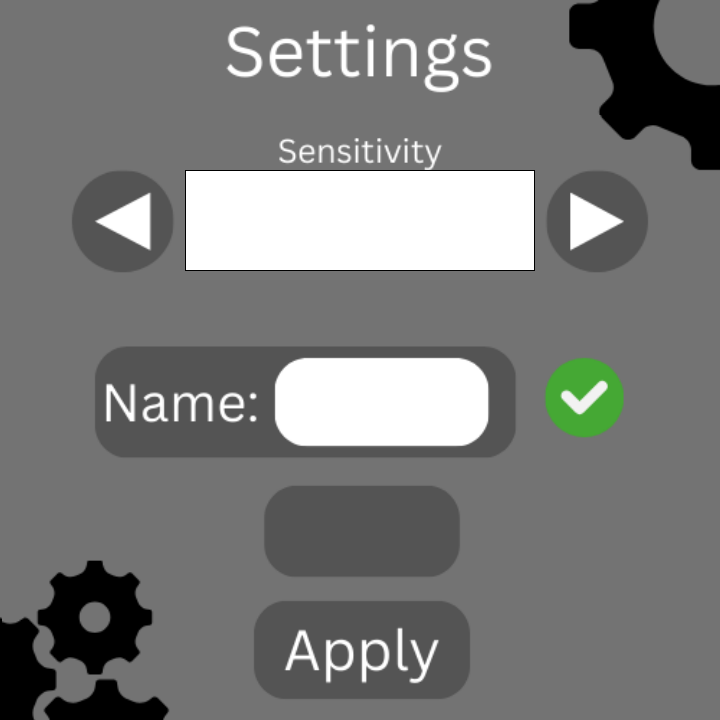
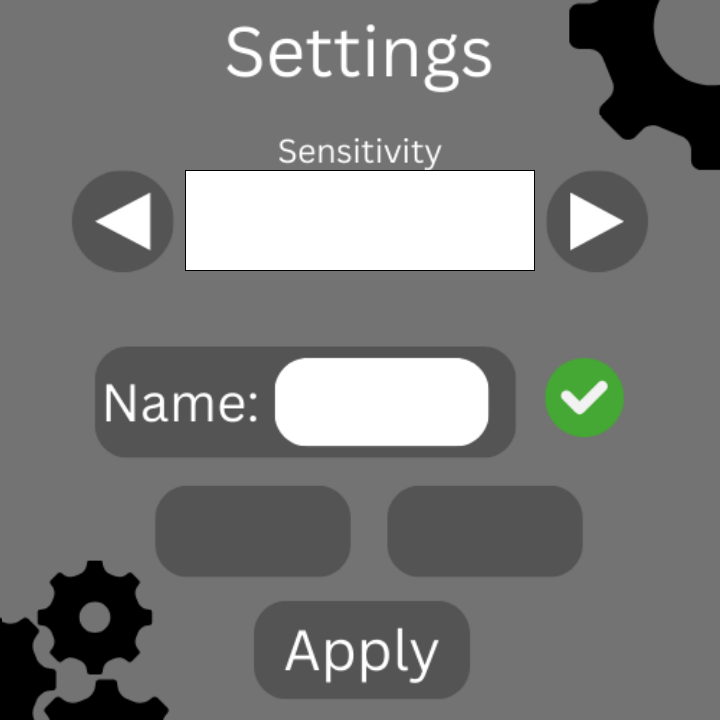
slurey of bug fixes

Changed region(s): [[0.6111, 0.6722, 0.825, 0.825], [0.2139, 0.6722, 0.3972, 0.825], [0.4583, 0.6722, 0.5806, 0.825]]

diff --git a/LiminalSpaceMazeGame/Game1.cs b/LiminalSpaceMazeGame/Game1.cs
@@ -29,6 +29,7 @@ namespace LiminalSpaceMazeGame
 
         Song mainSong;
         bool playsong = true;
+        bool playfx = true;
         bool playing = false;
 
         GenerateMaze TheMaze;
@@ -213,7 +214,9 @@ namespace LiminalSpaceMazeGame
             stateButtonList.Add(new stateButtons(new Vector2(250, 598), new Vector2(220, 100), GameState.Settings, 'E'));
             stateButtonList.Add(new stateButtons(new Vector2(275, 360), new Vector2(220, 90), GameState.Settings, 'N'));
             stateButtonList.Add(new stateButtons(new Vector2(545, 353), new Vector2(85, 85), GameState.Settings, 'C'));
-            stateButtonList.Add(new stateButtons(new Vector2(260, 485), new Vector2(200, 100), GameState.Settings, 'M'));
+            stateButtonList.Add(new stateButtons(new Vector2(150, 485), new Vector2(200, 100), GameState.Settings, 'M'));
+            stateButtonList.Add(new stateButtons(new Vector2(385, 485), new Vector2(200, 100), GameState.Settings, 'm'));
+
 
             stateButtonList.Add(new stateButtons(new Vector2(250, 598), new Vector2(220, 100), GameState.Leaderboard, 'E'));
 
@@ -302,7 +305,7 @@ namespace LiminalSpaceMazeGame
                     {
                         if (button.activeState == currentState && button.Edge.Intersects(mousePosition) && (mouseState.LeftButton == ButtonState.Pressed && mouseState2.LeftButton == ButtonState.Released))
                         {
-                            soundEffects[0].play();
+                            soundEffects[0].play(playfx);
                             switch (button.buttonAction)
                             {
                                 case 'b':
@@ -328,7 +331,7 @@ namespace LiminalSpaceMazeGame
                     {
                         if (button.activeState == currentState && button.Edge.Intersects(mousePosition) && (mouseState.LeftButton == ButtonState.Pressed && mouseState2.LeftButton == ButtonState.Released))
                         {
-                            soundEffects[0].play();
+                            soundEffects[0].play(playfx);
                             switch (button.buttonAction)
                             {
                                 case 'H':
@@ -353,15 +356,15 @@ namespace LiminalSpaceMazeGame
                             switch (button.buttonAction)
                             {
                                 case 'E':
-                                    if (mouseState2.LeftButton == ButtonState.Released && TheHero.name.Length>1 && !nameChange)
+                                    if (mouseState2.LeftButton == ButtonState.Released && TheHero.name.Length>0)
                                     {
-                                        soundEffects[0].play();
+                                        soundEffects[0].play(playfx);
 
                                         currentState = GameState.StartMenu;
                                     }
                                     else
                                     {
-                                        soundEffects[3].play();
+                                        soundEffects[3].play(playfx);
                                     }
                                     break;
                                 case 's':
@@ -379,21 +382,32 @@ namespace LiminalSpaceMazeGame
                                     }
                                     break;
                                 case 'N':
-                                    soundEffects[0].play();
+                                    soundEffects[0].play(playfx);
 
                                     nameChange = true;
                                     break;
                                 case 'M':
-                                    soundEffects[0].play();
                                     if (mouseState2.LeftButton != ButtonState.Pressed)
                                     {
+                                        soundEffects[0].play(playfx);
+
                                         playsong = !playsong;
                                     }
                                     break;
+                                case 'm':
+                                    if (mouseState2.LeftButton != ButtonState.Pressed)
+                                    {
+                                        soundEffects[0].play(playfx);
+                                        playfx = !playfx;
+                                    }
+                                    break;
                                 case 'C':
-                                    soundEffects[4].play();
-
-                                    nameChange = false;
+                                    if (mouseState2.LeftButton != ButtonState.Pressed)
+                                    {
+                                        soundEffects[4].play(playfx);
+                                        nameChange = false;
+                                    }
+                                    
                                     break;
                             }
                             break;
@@ -426,7 +440,7 @@ namespace LiminalSpaceMazeGame
                     {
                         if (button.activeState == currentState && button.Edge.Intersects(mousePosition) && (mouseState.LeftButton == ButtonState.Pressed && mouseState2.LeftButton == ButtonState.Released) && button.buttonAction == 'E')
                         {
-                            soundEffects[0].play();
+                            soundEffects[0].play(playfx);
                             currentState = GameState.StartMenu;
                         }
                     }
@@ -438,32 +452,25 @@ namespace LiminalSpaceMazeGame
                     {
                         if (button.activeState == currentState && button.Edge.Intersects(mousePosition) && (mouseState.LeftButton == ButtonState.Pressed && mouseState2.LeftButton == ButtonState.Released))
                         {
-
                             switch (button.buttonAction)
                             {
-
                                 case 'E':
-                                    soundEffects[0].play();
-
+                                    soundEffects[0].play(playfx);
                                     currentState = GameState.level;
                                     break;
                                 case 'S':
-                                    ShopItems[0] = TheHero.upgrade(ShopItems[0], levelNumber,soundEffects);
+                                    ShopItems[0] = TheHero.upgrade(ShopItems[0], levelNumber,soundEffects, playfx);
                                     break;
                                 case 'H':
-
-                                    ShopItems[1] = TheHero.upgrade(ShopItems[1], levelNumber, soundEffects);
+                                    ShopItems[1] = TheHero.upgrade(ShopItems[1], levelNumber, soundEffects, playfx);
                                     break;
                                 case 's':
-
-                                    ShopItems[2] = TheHero.upgrade(ShopItems[2], levelNumber, soundEffects);
+                                    ShopItems[2] = TheHero.upgrade(ShopItems[2], levelNumber, soundEffects , playfx);
                                     break;
                             }
                             break;
                         }
                     }
-                    TheHero.collected.Clear();
-                    TheHero.collected.Remove('k');
                     break;
                 case GameState.level:
                     if (!levelGen)//generate 1 new level and wait
@@ -488,6 +495,7 @@ namespace LiminalSpaceMazeGame
                     break;
                 case GameState.InGame:// run game code
                     // update all entities
+                    TheHero.update();
                     if (ks1.IsKeyDown(Keys.NumPad2))
                     {
                         CurrentDimension = Dimension.D2;
@@ -495,7 +503,7 @@ namespace LiminalSpaceMazeGame
                     else
                     {
                         CurrentDimension = Dimension.D3;
-                        TheHero.update();
+                        TheHero.move();
                     }
                     StaminaBar.update(TheHero.Stamina, TheHero.StaminaMax);
                     HealthBar.update(TheHero.checkHealth(), TheHero.maxHealth);
@@ -508,7 +516,7 @@ namespace LiminalSpaceMazeGame
                         if (col.Edge.Intersects(TheHero.Edge))
                         {
                             col.collect(TheHero);
-                            soundEffects[2].play();
+                            soundEffects[2].play(playfx);
                             Vector2 dis = new Vector2(col.Edge.Center.X, col.Edge.Center.Y) - TheHero.getLocation();//make variable to determine the vector distance away from the center of  the wall in question                                                                                  
                             if (Math.Abs(dis.X) > Math.Abs(dis.Y))//move player away depending on what side is further on collision
                             {
@@ -522,7 +530,7 @@ namespace LiminalSpaceMazeGame
                     }
                     foreach (var monster in monsters)
                     {
-                        monster.update(TheHero, maze);
+                        monster.update(TheHero);
                         Vector2 anglemath = monster.getLocation() - TheHero.getLocation();
                         double angle = Math.Atan(anglemath.X / -anglemath.Y);
                         if (monster.getLocation().Y > TheHero.getLocation().Y)
@@ -549,20 +557,24 @@ namespace LiminalSpaceMazeGame
                         bool shootable = shotsFired(TheHero.rotation, TheHero.getLocation(), 200);
                         MonsterHealthBar.update(monster.gethealth(), monster.gethealthMax());
                         MonsterHealthBar.display = true;
-                        if ((mouseState.LeftButton == ButtonState.Pressed) && (mouseState2.LeftButton == ButtonState.Released))
+                        if ((mouseState.LeftButton == ButtonState.Pressed) && (mouseState2.LeftButton == ButtonState.Released) && TheHero.Stamina >= 100)
                         {
-                            soundEffects[5].play();
+                            soundEffects[5].play(playfx);
+
                             TheHero.Stamina -= 100;
-                        }
-                        if (shootable)
-                        {
-                            soundEffects[6].play();
-                            if ((mouseState.LeftButton == ButtonState.Pressed) && (mouseState2.LeftButton == ButtonState.Released))
+                            if (shootable)
                             {
-                                soundEffects[8].play();
                                 monster.loseHealth(TheHero.Damage);
+                                if (monster.gethealth() < 0)
+                                {
+                                    soundEffects[7].play(playfx);
+                                }
                                 break;
                             }
+                        }
+                        if (monster.lineOfSight)
+                        {
+                            soundEffects[6].play(playfx);
                         }
                         else
                         {
@@ -740,7 +752,7 @@ namespace LiminalSpaceMazeGame
                     }
                     if (TheHero.checkHealth() <= 0 || ks1.IsKeyDown(Keys.Enter) && ks2.IsKeyUp(Keys.Enter))
                     {
-                        soundEffects[7].play();
+                        soundEffects[8].play(playfx);
                         NameValue newinput = new NameValue();
                         newinput.name = TheHero.name;
                         newinput.value = TheHero.points;
@@ -899,7 +911,7 @@ namespace LiminalSpaceMazeGame
                             }
                             else if (monsterCount == 0 || (rnd.Next(0, 4) == 1 && monsterCount < monsterMax))//ensures 1 monster after 1 exit
                             {
-                                Monster newMonster = new Monster(new Vector2(i * 40, j * 40), 1, levelNumber * levelNumber);//spawn monster at end of corridor
+                                Monster newMonster = new Monster(new Vector2(i * 40, j * 40), 1, levelNumber * levelNumber,maze);//spawn monster at end of corridor
                                 newMonster.LoadContent(Content);
                                 monsters.Add(newMonster);
                                 monsterCount++;
@@ -960,12 +972,19 @@ namespace LiminalSpaceMazeGame
                     }
                     if (playsong)
                     {
-                        spriteBatch.DrawString(GameFont, "mute", new Vector2(295, 500), Color.Green, 0f, new Vector2(1, 1), 2.25f, SpriteEffects.None, 1);
+                        spriteBatch.DrawString(GameFont, "music", new Vector2(180, 500), Color.Green, 0f, new Vector2(1, 1), 2.25f, SpriteEffects.None, 1);
                     }
                     else
                     {
-                        spriteBatch.DrawString(GameFont, "mute", new Vector2(295, 500), Color.Red, 0f, new Vector2(1, 1), 2.25f, SpriteEffects.None, 1);
-
+                        spriteBatch.DrawString(GameFont, "music", new Vector2(180, 500), Color.Red, 0f, new Vector2(1, 1), 2.25f, SpriteEffects.None, 1);
+                    }
+                    if (playfx)
+                    {
+                        spriteBatch.DrawString(GameFont, "fx", new Vector2(400, 500), Color.Green, 0f, new Vector2(1, 1), 2.25f, SpriteEffects.None, 1);
+                    }
+                    else
+                    {
+                        spriteBatch.DrawString(GameFont, "fx", new Vector2(400, 500), Color.Red, 0f, new Vector2(1, 1), 2.25f, SpriteEffects.None, 1);
                     }
                     break;
                 case GameState.Leaderboard:

diff --git a/LiminalSpaceMazeGame/Monster.cs b/LiminalSpaceMazeGame/Monster.cs
@@ -25,14 +25,17 @@ namespace LiminalSpaceMazeGame
         int[] currentCoords = { 0, 0 };
         float disToGo = 40;
         private bool dead = false;
+        private Vector2 spawnLoc;
+        int[,] maze;
         Direction previous = Direction.none;
 
         public new int Damage { get => damage; set => damage = value; }
 
-        public Monster(Vector2 startingLoc, int text, int multistat)
+        public Monster(Vector2 startingLoc, int text, int multistat, int[,] theMaze)
         {
+            maze = theMaze;
             Random random = new Random();
-            damage = 2 * random.Next((int)Math.Sqrt(multistat),multistat);
+            damage = 2 * random.Next((int)Math.Sqrt(multistat)*2,multistat*2);
             memoryStrength = 5 * multistat;
             health = random.Next((int)Math.Sqrt(multistat), (multistat/2)+1);
             maxHealth = health;
@@ -44,9 +47,9 @@ namespace LiminalSpaceMazeGame
             currentCoords[1] = (int)startingLoc.Y/40;
             nextCoords[0] = currentCoords[0];
             nextCoords[1] = currentCoords[1];
-            
+            spawnLoc = startingLoc;
         }
-        public void update(Hero theHero, int[,] theMaze)
+        public void update(Hero theHero)
         {
             if (dead)//dont move update if the monster is dead
             {
@@ -64,9 +67,9 @@ namespace LiminalSpaceMazeGame
                 {
                     for (int j = 0; j > 17; i++)
                     {
-                        if (theMaze[i,j] == 6)
+                        if (maze[i,j] == 6)
                         {
-                            theMaze[i,j] = 1;
+                            maze[i,j] = 1;
                         }
                     }
                 }
@@ -81,7 +84,7 @@ namespace LiminalSpaceMazeGame
             }
             else // wander movement
             {
-                move(theMaze, theHero);
+                move(theHero);
             }
             if (memory == 1)
             {
@@ -102,7 +105,7 @@ namespace LiminalSpaceMazeGame
             Movement.X = 1.1f * (float)Math.Sin(rotation);// --//--
             Movement.Y = -1.1f * (float)Math.Cos(rotation);
         }
-        private void move(int[,] maze, Hero theHero)
+        private void move(Hero theHero)
         {
             Random rnd = new Random();
 

diff --git a/LiminalSpaceMazeGame/Hero.cs b/LiminalSpaceMazeGame/Hero.cs
@@ -59,9 +59,8 @@ namespace LiminalSpaceMazeGame
         {
             //creates player edge
             Edge = new Rectangle((int)getLocation().X - Texture.Width / 2, (int)getLocation().Y - Texture.Height / 2, Texture.Width, Texture.Height);
-            move();
         }
-        protected void move()
+        public void move()
         {
             //checks for keyboard inputs
             KeyboardState ks = Keyboard.GetState();
@@ -173,16 +172,16 @@ namespace LiminalSpaceMazeGame
             Health = maxHealth;
         }
 
-        public NameValue upgrade(NameValue item, int levelNum, List<AudioSound> sound)
+        public NameValue upgrade(NameValue item, int levelNum, List<AudioSound> sound, bool play)
         {
             if ((item.value * levelNum*item.used) <= points)
             {
-                sound[1].play();
+                sound[1].play(play);
                 points -= item.value * levelNum * item.used;
             }
             else
             {
-                sound[3].play();
+                sound[3].play(play);
                 return item;
             }
 

diff --git a/LiminalSpaceMazeGame/Ray.cs b/LiminalSpaceMazeGame/Ray.cs
@@ -64,8 +64,8 @@ namespace LiminalSpaceMazeGame
                             }
                         }
                     }
-                    
                 }
+                speed += 0.2f;
                 if(Math.Abs(TheRay.getLocation().X-TheHero.getLocation().X) > maxCastLength || Math.Abs(TheRay.getLocation().Y - TheHero.getLocation().Y) > maxCastLength)
                 {
                     return new Vector2(maxCastLength, maxCastLength);

diff --git a/LiminalSpaceMazeGame/audio.cs b/LiminalSpaceMazeGame/audio.cs
@@ -22,9 +22,12 @@ namespace LiminalSpaceMazeGame
         {
             music = Content.Load<SoundEffect>(musicName);
         }
-        public void play()
+        public void play(bool playcase)
         {
-            music.Play();
+            if (playcase)
+            {
+                music.Play();
+            }
         }
     }
 }
